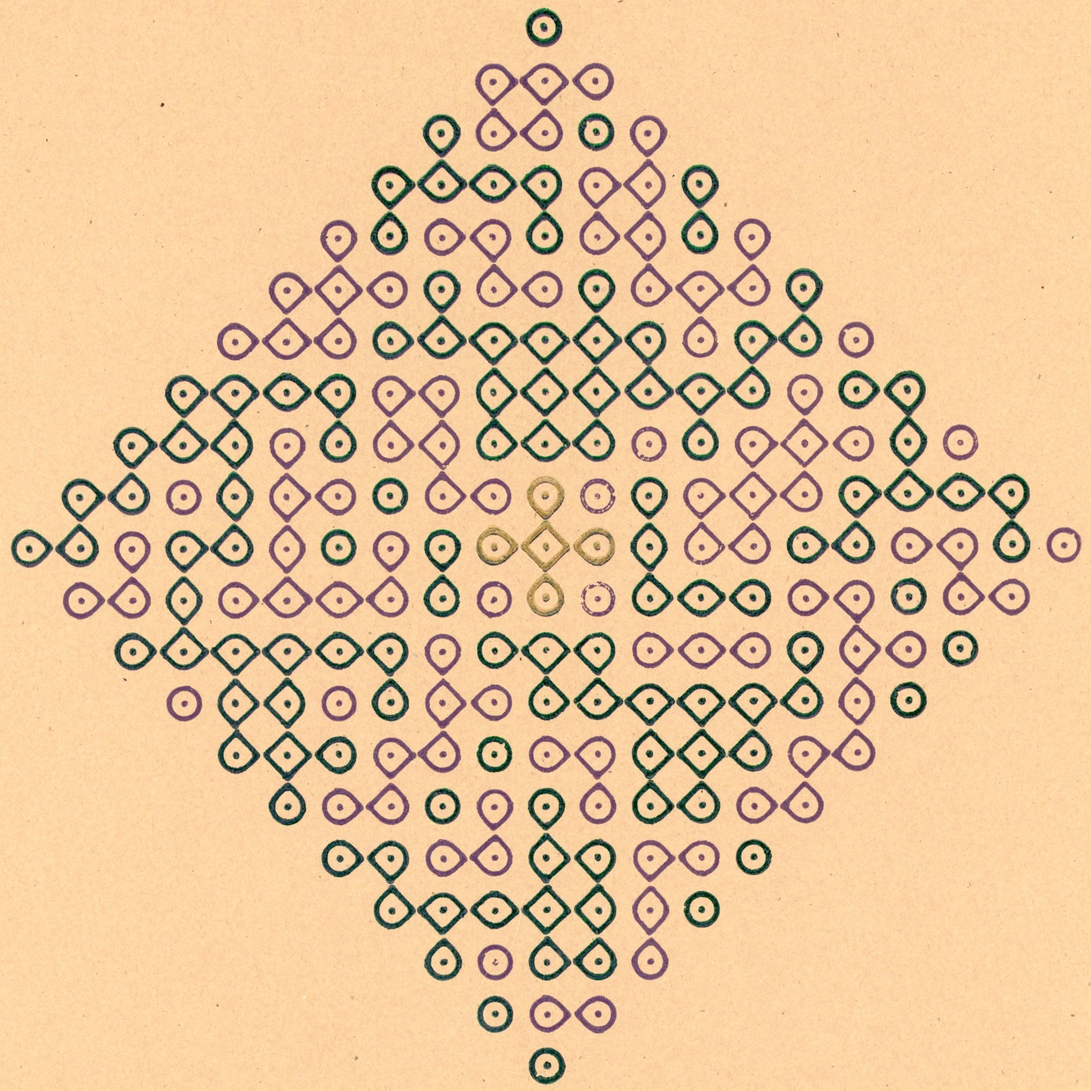
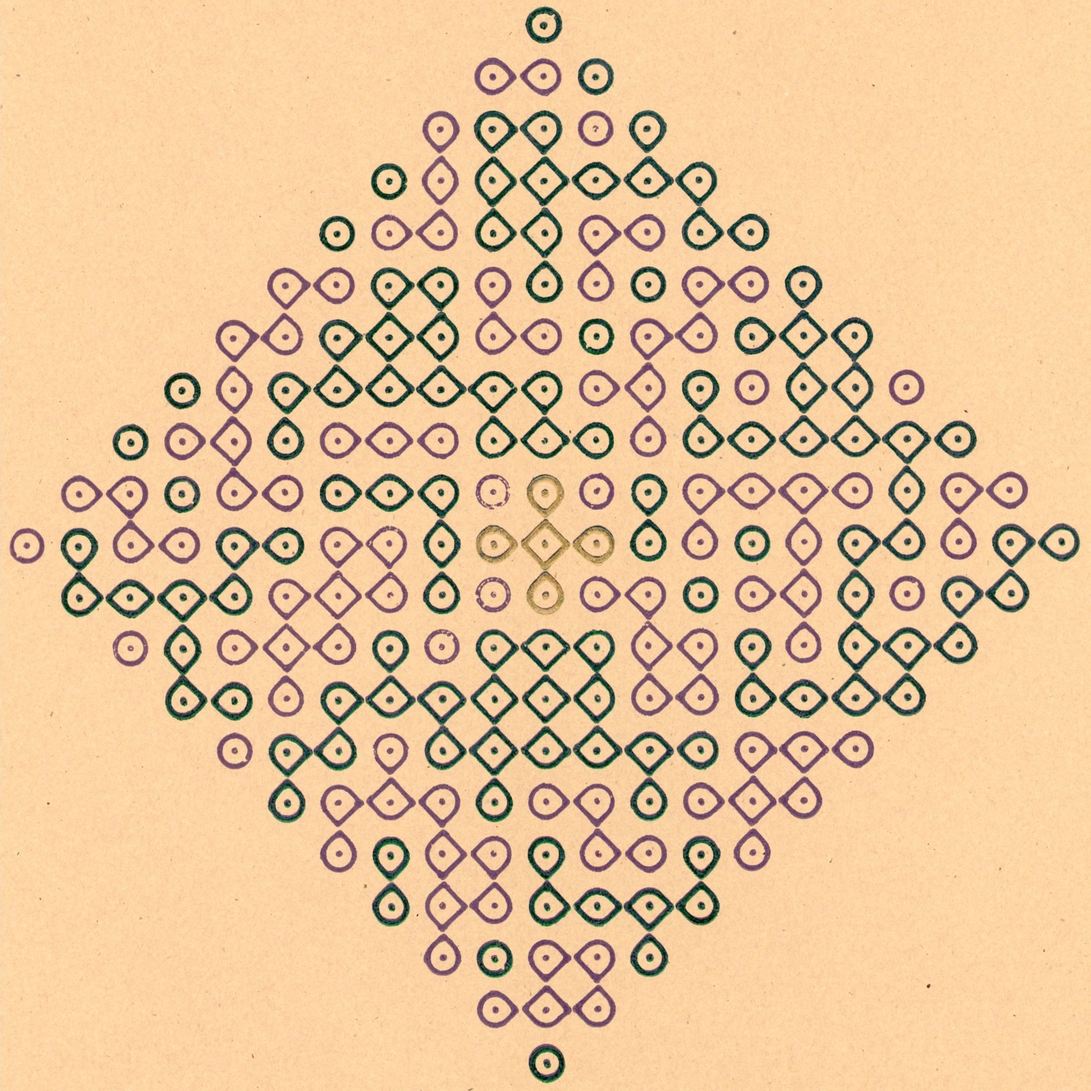
fixes kolams

Changed region(s): [[0.0, 0.0, 0.9897, 1.0]]

diff --git a/ritual/5/index.html b/ritual/5/index.html
@@ -54,7 +54,7 @@
 </main>
 <script type="text/javascript">
     let dotCount = 23;
-    let fixed = [0, 1]
+    let fixed = [0, 1, 56, 71, 72, 73, 88, 89, 90, 91, 92, 107, 108, 109, 110, 111, 112, 113, 128, 129, 130, 131, 132, 133, 134, 135, 136, 151, 152, 153, 154, 155, 156, 157, 172, 173, 174, 175, 176, 191, 192, 193, 208]
     let url = "../assets/comrade_rukmini.jpg"
 </script>
 <script src="../main.js"></script>

diff --git a/ritual/main.js b/ritual/main.js
@@ -91,7 +91,7 @@ document.querySelector("#copy-text").addEventListener("click", function(){
       // Remove the temporary textarea element
       document.body.removeChild(tempTextArea);
   
-  
+    // alert(final)
       document.querySelector("#copy-success").classList.add('on');
       setTimeout(function(){
         document.querySelector("#copy-success").classList.remove('on');

diff --git a/ritual/4/index.html b/ritual/4/index.html
@@ -54,7 +54,7 @@
 </main>
 <script type="text/javascript">
     let dotCount = 29;
-    let fixed = [3, 0 ]
+    let fixed = [3, 0, 110, 132, 155, 156, 157, 180, 181, 182, 183, 184, 206, 207, 208, 209, 210, 211, 212, 213, 214, 236, 237, 238, 239, 240, 263, 264, 265, 288, 310 ]
     let url = "../assets/bhumi.jpg"
 </script>
 <script src="../main.js"></script>

diff --git a/ritual/15/index.html b/ritual/15/index.html
@@ -54,7 +54,7 @@
 </main>
 <script type="text/javascript">
     let dotCount = 25;
-    let fixed = [3, 0]
+    let fixed = [3, 0,  108, 109, 110, 111, 112, 130, 131, 132, 133, 134, 154, 155, 156, 157, 158, 178, 179, 180, 181, 182, 200, 201, 202, 203, 204]
     let url = "../assets/rajyalaxmi.jpg"
 </script>
 <script src="../main.js"></script>

diff --git a/ritual/13/index.html b/ritual/13/index.html
@@ -54,7 +54,7 @@
 </main>
 <script type="text/javascript">
     let dotCount = 23;
-    let fixed = [3, 0]
+    let fixed = [3, 0, 88, 89, 90, 91, 92, 108, 109, 110, 111, 112, 130, 131, 132, 133, 134, 152, 153, 154, 155, 156, 172, 173, 174, 175, 176]
     let url = "../assets/manchikallipudi.jpg"
 </script>
 <script src="../main.js"></script>

diff --git a/ritual/8/index.html b/ritual/8/index.html
@@ -54,7 +54,7 @@
 </main>
 <script type="text/javascript">
     let dotCount = 21;
-    let fixed = [0, 1]
+    let fixed = [0, 1, 42, 56, 72, 89, 90, 91, 106, 107, 108, 109, 110, 111, 112, 113, 114, 129, 130, 131, 148, 164, 178]
     let url = "../assets/ftrts.jpg"
 </script>
 <script src="../main.js"></script>

diff --git a/ritual/3/index.html b/ritual/3/index.html
@@ -54,7 +54,7 @@
 </main>
 <script type="text/javascript">
     let dotCount = 27;
-    let fixed = [2, 0]
+    let fixed = [2, 0, 132, 155, 156, 157, 180, 181, 182, 183, 184, 207, 208, 209, 232]
     let url = "../assets/belarus.jpeg"
 </script>
 <script src="../main.js"></script>

diff --git a/ritual/14/index.html b/ritual/14/index.html
@@ -54,7 +54,7 @@
 </main>
 <script type="text/javascript">
     let dotCount = 21;
-    let fixed = [0, 1]
+    let fixed = [0, 1, 72, 89, 90, 91, 108, 109, 110, 111, 112, 129, 130, 131, 148]
     let url = "../assets/maniben.jpg"
 </script>
 <script src="../main.js"></script>

diff --git a/ritual/2/index.html b/ritual/2/index.html
@@ -54,7 +54,7 @@
 </main>
 <script type="text/javascript">
     let dotCount = 19;
-    let fixed = [0, 1]
+    let fixed = [0, 1, 56, 71, 72, 73, 88, 89, 90, 91, 92, 107, 108, 109, 124]
     let url = "../assets/ACAB.jpeg"
 </script>
 <script src="../main.js"></script>

diff --git a/ritual/9/index.html b/ritual/9/index.html
@@ -54,7 +54,7 @@
 </main>
 <script type="text/javascript">
     let dotCount = 15;
-    let fixed = [2, 0]
+    let fixed = [2, 0,  41, 42, 43, 55, 56, 57, 69, 70, 71]
     let url = "../assets/hind.jpg"
 </script>
 <script src="../main.js"></script>

diff --git a/ritual/18/index.html b/ritual/18/index.html
@@ -54,7 +54,7 @@
 </main>
 <script type="text/javascript">
     let dotCount = 27;
-    let fixed = [3, 0]
+    let fixed = [3, 0, 156, 181, 182, 183, 208]
     let url = "../assets/swarajyalaxmi.jpg"
 </script>
 <script src="../main.js"></script>

diff --git a/ritual/7/index.html b/ritual/7/index.html
@@ -54,7 +54,7 @@
 </main>
 <script type="text/javascript">
     let dotCount = 21;
-    let fixed = [3, 0]
+    let fixed = [3, 0, 90, 109, 110, 111, 130 ]
     let url = "../assets/durgirala.jpg"
 </script>
 <script src="../main.js"></script>
